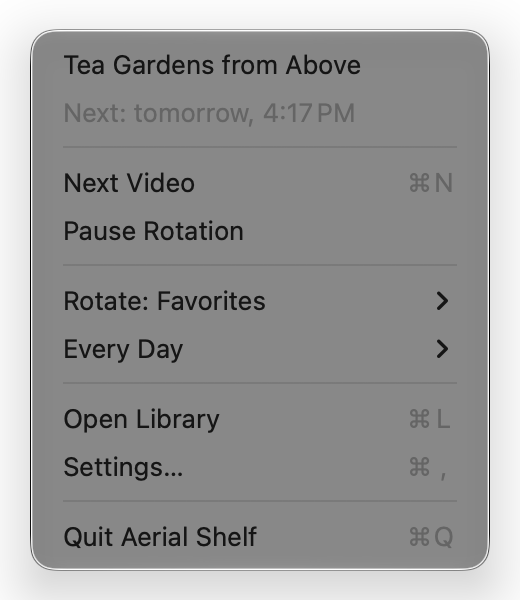
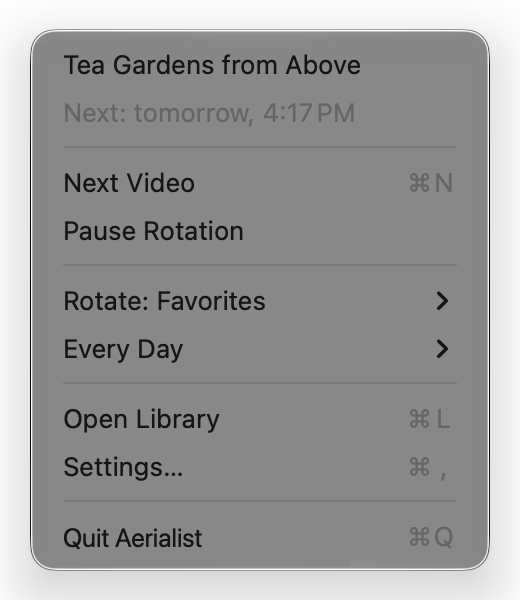
Rename Aerial Shelf to Aerialist
New app name, bundle id com.eddytwist.Aerialist, data folder, catalog folder and
custom video addresses. Version 0.3.0.

Changed region(s): [[0.1231, 0.87, 0.4923, 0.93]]

diff --git a/Sources/AerialCore/CustomVideos.swift b/Sources/AerialCore/CustomVideos.swift
@@ -28,7 +28,7 @@ public struct CustomVideo: Codable, Identifiable, Hashable, Sendable {
 }
 
 /// A group of the user's videos, made from a folder. In macOS it is a subcategory of "My Videos";
-/// in Aerial Shelf it also gets a playlist, so the set can rotate on its own.
+/// in Aerialist it also gets a playlist, so the set can rotate on its own.
 public struct CustomSet: Codable, Identifiable, Hashable, Sendable {
     public let id: UUID
     public var name: String
@@ -102,7 +102,7 @@ public struct CustomLibrary: Codable, Equatable, Sendable {
     /// Address written in the catalog and on the file. It can never be downloaded (`.invalid` is reserved),
     /// so macOS has nothing to fetch even if a file goes missing.
     public static func sourceURL(for id: String) -> URL {
-        URL(string: "https://aerial-shelf.invalid/videos/\(id).mov")!
+        URL(string: "https://aerialist.invalid/videos/\(id).mov")!
     }
 
     /// Stable IDs of the "My Videos" category and of its subcategory for videos that aren't in a set.
@@ -183,9 +183,9 @@ public enum CustomCatalog {
                 "id": video.id, "localizedNameKey": video.name, "accessibilityLabel": video.name,
                 "categories": [CustomLibrary.categoryID],
                 "subcategories": [set?.id.uuidString ?? CustomLibrary.looseSubcategoryID],
-                // Never part of Apple's Shuffle: it is only ever chosen by Aerial Shelf.
+                // Never part of Apple's Shuffle: it is only ever chosen by Aerialist.
                 "includeInShuffle": false, "showInTopLevel": true, "preferredOrder": index,
-                "pointsOfInterest": [String: Any](), "shotID": "AERIAL_SHELF_\(video.id)",
+                "pointsOfInterest": [String: Any](), "shotID": "AERIALIST_\(video.id)",
                 "previewImage": preview(video.id),
                 "url-4K-SDR-240FPS": CustomLibrary.sourceURL(for: video.id).absoluteString,
             ])
@@ -195,11 +195,11 @@ public enum CustomCatalog {
         return try JSONSerialization.data(withJSONObject: root, options: [.sortedKeys])
     }
 
-    private static func preview(_ id: String) -> String { "https://aerial-shelf.invalid/thumbnails/\(id).png" }
+    private static func preview(_ id: String) -> String { "https://aerialist.invalid/thumbnails/\(id).png" }
 }
 
 extension Catalog {
-    /// This catalog plus the user's videos, as Aerial Shelf shows and checks them.
+    /// This catalog plus the user's videos, as Aerialist shows and checks them.
     /// - Parameter enabled: whether macOS currently knows the videos (the catalog override is on).
     public func adding(_ library: CustomLibrary, enabled: Bool) -> Catalog {
         let custom = library.videos.filter { Catalog.isAssetID($0.id) }.map { video in
@@ -220,7 +220,7 @@ extension Catalog {
 
 extension Catalog {
     /// Apple's catalog plus the user's videos, as the app and `aerialctl` use it.
-    /// The videos count as usable only while the user has them on and macOS points at Aerial Shelf's catalog.
+    /// The videos count as usable only while the user has them on and macOS points at Aerialist's catalog.
     public static func loadWithCustom(
         paths: AerialPaths, customVideosEnabled: Bool, preferences: PreferencesAccessing = SystemPreferences()
     ) throws -> Catalog {
@@ -270,7 +270,7 @@ public enum CustomPolicy {
 }
 
 extension CustomLibrary {
-    /// IDs of the user's videos on disk, known or not: files whose `SourceURL` is an Aerial Shelf address.
+    /// IDs of the user's videos on disk, known or not: files whose `SourceURL` is an Aerialist address.
     /// Lets checks work even when the list itself couldn't be read.
     public static func filesOnDisk(_ local: [String: LocalVideo]) -> Set<String> {
         Set(local.filter { $0.value.sourceURL == sourceURL(for: $0.key).absoluteString }.keys)

diff --git a/Sources/AerialCore/AerialPaths.swift b/Sources/AerialCore/AerialPaths.swift
@@ -8,7 +8,7 @@ public struct AerialPaths: Sendable, Equatable {
     public let home: URL
     public let appSupport: URL
 
-    public init(home: URL, appFolderName: String = "AerialShelf") {
+    public init(home: URL, appFolderName: String = "Aerialist") {
         self.home = home
         self.appSupport = home
             .appending(path: "Library/Application Support", directoryHint: .isDirectory)
@@ -46,7 +46,7 @@ public struct AerialPaths: Sendable, Equatable {
 
     /// The catalog with the user's videos added, which macOS reads while they are on. It sits next to
     /// macOS's own aerial data because the wallpaper extension can't read files elsewhere.
-    public var customCatalogFolder: URL { aerialsRoot.appending(path: "aerial-shelf", directoryHint: .isDirectory) }
+    public var customCatalogFolder: URL { aerialsRoot.appending(path: "aerialist", directoryHint: .isDirectory) }
     public var customCatalog: URL { customCatalogFolder.appending(path: "entries.json") }
 
     public func videoFile(for assetID: String) -> URL { videos.appending(path: "\(assetID).mov") }

diff --git a/Sources/AerialistApp/LibraryView.swift b/Sources/AerialistApp/LibraryView.swift
@@ -273,7 +273,7 @@ struct LibraryView: View {
             }
             Button(L.t("Cancel"), role: .cancel) { pendingImport = nil }
         } message: {
-            Text(L.t("Aerial Shelf points macOS to its own copy of Apple’s aerial catalog with your videos added. It uses a macOS setting Apple doesn’t document; you can turn this off in Settings."))
+            Text(L.t("Aerialist points macOS to its own copy of Apple’s aerial catalog with your videos added. It uses a macOS setting Apple doesn’t document; you can turn this off in Settings."))
         }
     }
 
@@ -396,7 +396,7 @@ struct RotationControl: View {
     var body: some View {
         Menu {
             if model.isAppleShuffleOn {
-                Button(L.t("Use Aerial Shelf Instead")) { Task { await model.replaceAppleShuffle() } }
+                Button(L.t("Use Aerialist Instead")) { Task { await model.replaceAppleShuffle() } }
             }
             if model.state.paused {
                 Button(L.t("Resume Rotation")) { Task { await model.resumeRotation() } }

diff --git a/Sources/AerialistApp/AppModel+Custom.swift b/Sources/AerialistApp/AppModel+Custom.swift
@@ -16,7 +16,7 @@ struct ImportStatus: Equatable {
 extension AppModel {
     var customOverride: CatalogOverride { CatalogOverride(paths: paths) }
 
-    /// Usable as wallpapers right now: switched on, and macOS points at Aerial Shelf's catalog.
+    /// Usable as wallpapers right now: switched on, and macOS points at Aerialist's catalog.
     var customVideosActive: Bool { catalog?.customEnabled ?? false }
 
     var customIDs: Set<String> { Set(custom.videos.map(\.id)) }
@@ -80,7 +80,7 @@ extension AppModel {
             }
         }
         guard !jobs.isEmpty else {
-            windowError = L.t("No videos found. Aerial Shelf adds .mov, .mp4 and .m4v files and folders with them.")
+            windowError = L.t("No videos found. Aerialist adds .mov, .mp4 and .m4v files and folders with them.")
             return
         }
         state.customVideosEnabled = true

diff --git a/Sources/AerialCore/CatalogOverride.swift b/Sources/AerialCore/CatalogOverride.swift
@@ -38,7 +38,7 @@ public struct CatalogOverride: Sendable {
         self.preferences = preferences
     }
 
-    /// True when macOS is set to read Aerial Shelf's catalog.
+    /// True when macOS is set to read Aerialist's catalog.
     public var isActive: Bool {
         (preferences.value(Self.pathKey, domain: Self.domain) as? String) == paths.customCatalog.path
             && (preferences.value(Self.forceKey, domain: Self.domain) as? Bool) == true
@@ -83,7 +83,7 @@ public struct CatalogOverride: Sendable {
         preferences.set(true, Self.forceKey, domain: Self.domain)
     }
 
-    /// Removes both keys, but only when they are Aerial Shelf's own.
+    /// Removes both keys, but only when they are Aerialist's own.
     public func deactivate() {
         guard !isUsedByOthers else { return }
         preferences.set(nil, Self.pathKey, domain: Self.domain)

diff --git a/Sources/AerialistApp/AerialistApp.swift b/Sources/AerialistApp/AerialistApp.swift
@@ -3,7 +3,7 @@ import AppKit
 import SwiftUI
 
 @main
-struct AerialShelfApp: App {
+struct AerialistApp: App {
     @NSApplicationDelegateAdaptor(AppDelegate.self) private var delegate
     @ViewState private var model = AppModel()
 
@@ -168,7 +168,7 @@ enum MenuBarIcon {
 
 enum AppInfo {
     /// Product name shown in the UI (from the bundle; `scripts/app.config` sets it).
-    static let name = Bundle.main.object(forInfoDictionaryKey: "CFBundleDisplayName") as? String ?? "Aerial Shelf"
+    static let name = Bundle.main.object(forInfoDictionaryKey: "CFBundleDisplayName") as? String ?? "Aerialist"
     static let version = Bundle.main.object(forInfoDictionaryKey: "CFBundleShortVersionString") as? String ?? "dev"
     static let authorURL = URL(string: "https://eddytwist.com")!
 }

diff --git a/Package.swift b/Package.swift
@@ -2,18 +2,18 @@
 import PackageDescription
 
 let package = Package(
-    name: "AerialShelf",
+    name: "Aerialist",
     platforms: [.macOS(.v26)],
     products: [
         .library(name: "AerialCore", targets: ["AerialCore"]),
         .executable(name: "aerialctl", targets: ["aerialctl"]),
-        .executable(name: "AerialShelfApp", targets: ["AerialShelfApp"]),
+        .executable(name: "AerialistApp", targets: ["AerialistApp"]),
     ],
     targets: [
         .target(name: "AerialCore"),
         .executableTarget(name: "aerialctl", dependencies: ["AerialCore"]),
         .executableTarget(
-            name: "AerialShelfApp",
+            name: "AerialistApp",
             dependencies: ["AerialCore"],
             exclude: ["Resources"]
         ),

diff --git a/Tests/AerialCoreTests/CustomVideoTests.swift b/Tests/AerialCoreTests/CustomVideoTests.swift
@@ -37,7 +37,7 @@ final class FakePreferences: PreferencesAccessing, @unchecked Sendable {
         #expect(entry["subcategories"] as? [String] == [CustomLibrary.looseSubcategoryID])
         #expect(entry["includeInShuffle"] as? Bool == false)
         #expect(entry["url-4K-SDR-240FPS"] as? String == CustomLibrary.sourceURL(for: video.id).absoluteString)
-        #expect(CustomLibrary.sourceURL(for: video.id).host() == "aerial-shelf.invalid")
+        #expect(CustomLibrary.sourceURL(for: video.id).host() == "aerialist.invalid")
     }
 
     @Test func noVideosMeansApplesCatalogUnchanged() throws {

diff --git a/Sources/AerialistApp/AppModel.swift b/Sources/AerialistApp/AppModel.swift
@@ -496,7 +496,7 @@ final class AppModel {
             do {
                 if newValue { try SMAppService.mainApp.register() } else { try SMAppService.mainApp.unregister() }
             } catch {
-                windowError = L.t("Couldn’t change Open at Login. You can add Aerial Shelf in System Settings → General → Login Items & Extensions.")
+                windowError = L.t("Couldn’t change Open at Login. You can add Aerialist in System Settings → General → Login Items & Extensions.")
             }
             loginItemStatus = SMAppService.mainApp.status
         }

diff --git a/Sources/AerialistApp/VideoTile.swift b/Sources/AerialistApp/VideoTile.swift
@@ -130,7 +130,7 @@ struct VideoTile: View {
             Button(L.t("Cancel"), role: .cancel) {}
         } message: {
             Text(asset.isCustom
-                 ? L.t("Aerial Shelf’s copy goes to the Trash. Your original file stays where it is.")
+                 ? L.t("Aerialist’s copy goes to the Trash. Your original file stays where it is.")
                  : L.t("You can download it again later."))
         }
         .confirmationDialog(L.t("Remove “%@” from My Videos?", model.name(asset)), isPresented: $askingRemove) {

diff --git a/Sources/AerialistApp/SettingsView.swift b/Sources/AerialistApp/SettingsView.swift
@@ -31,7 +31,7 @@ struct SettingsView: View {
                         .foregroundStyle(.primary)
                 }
                 if model.hasPerDisplayOverrides {
-                    Text(L.t("Some displays or Spaces have their own wallpaper. Aerial Shelf doesn’t change it there."))
+                    Text(L.t("Some displays or Spaces have their own wallpaper. Aerialist doesn’t change it there."))
                         .foregroundStyle(.secondary)
                 }
                 LabeledContent(L.t("Original Wallpaper")) {

diff --git a/Sources/AerialistApp/MenuContent.swift b/Sources/AerialistApp/MenuContent.swift
@@ -16,7 +16,7 @@ struct MenuContent: View {
         Divider()
 
         if model.isAppleShuffleOn {
-            Button(L.t("Use Aerial Shelf Instead")) { Task { await model.replaceAppleShuffle() } }
+            Button(L.t("Use Aerialist Instead")) { Task { await model.replaceAppleShuffle() } }
         }
         Button(L.t("Next Video")) { Task { await model.next() } }
             .keyboardShortcut("n")
